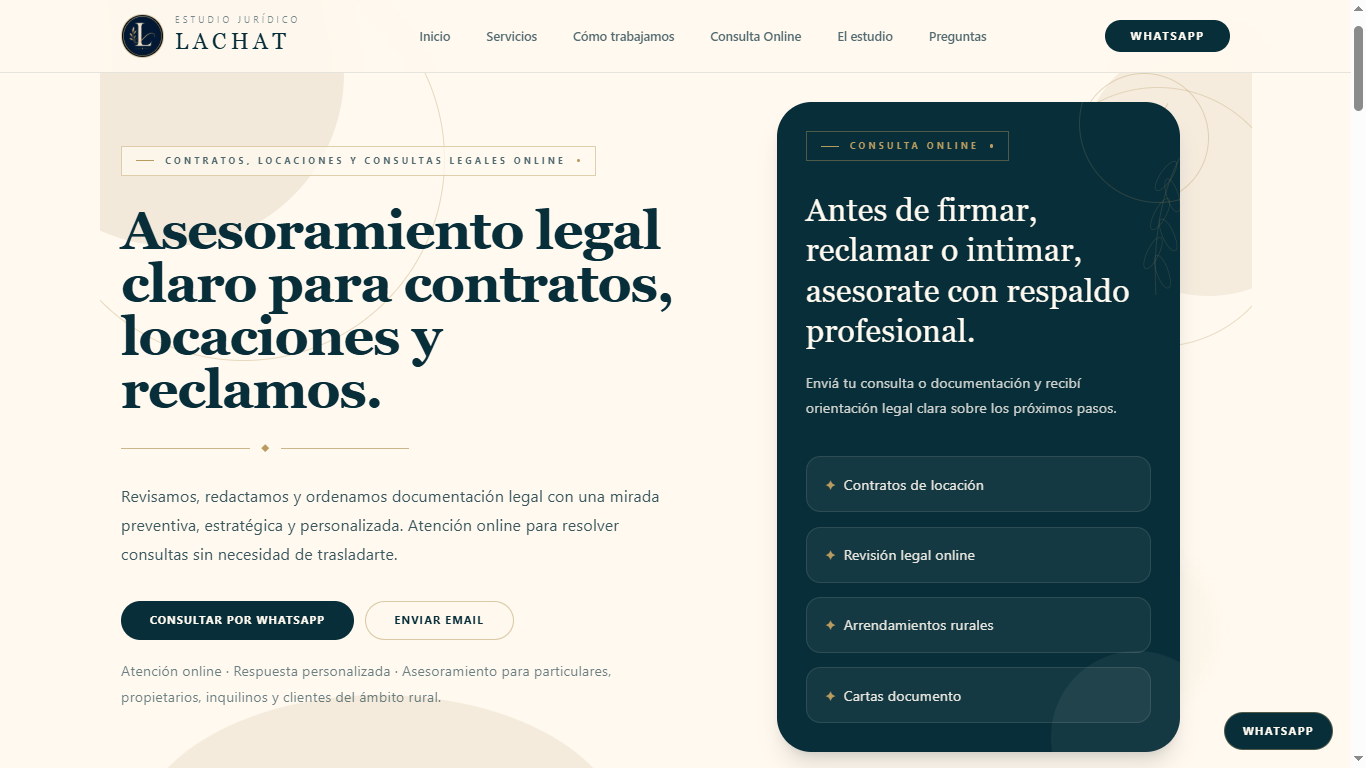
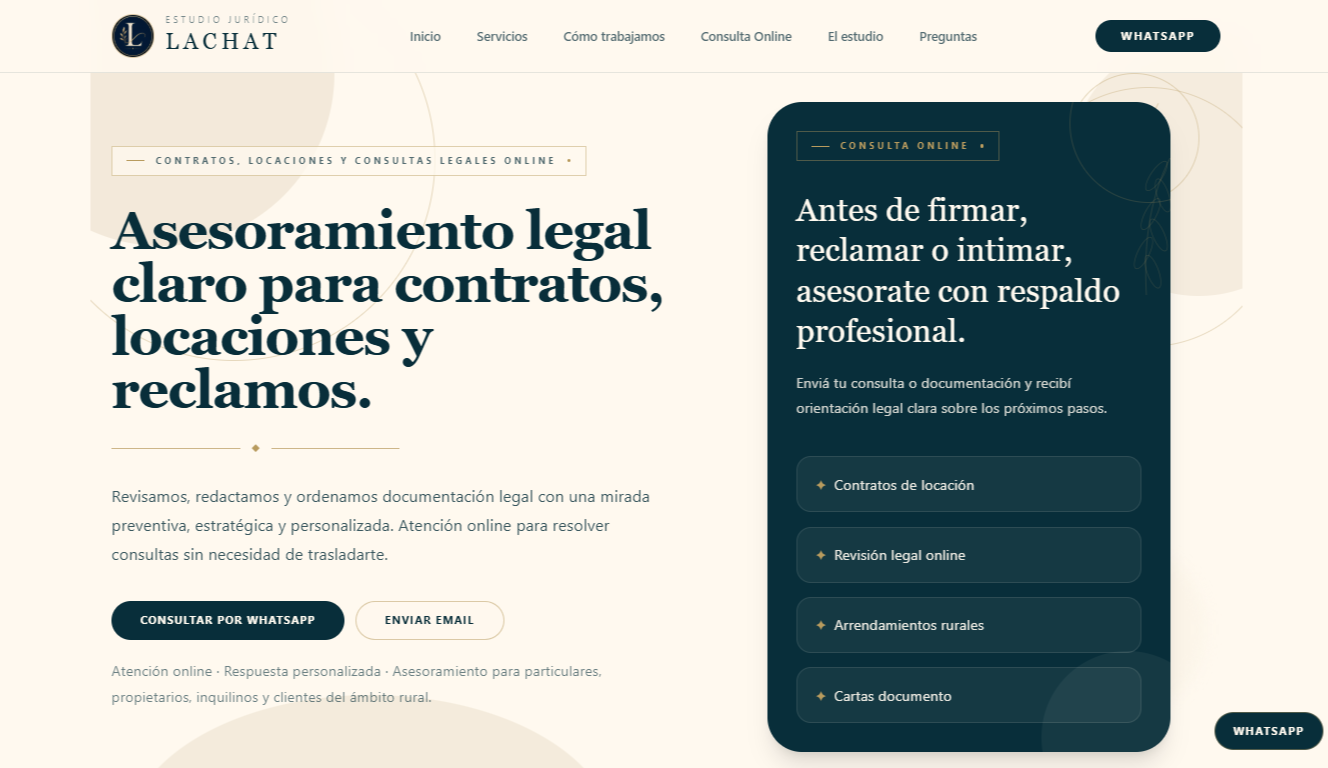
conifgs de supabase y vercel

diff --git a/src/app/api/cron/supabase-health/route.ts b/src/app/api/cron/supabase-health/route.ts
@@ -1,0 +1,125 @@
+import { createClient } from "@supabase/supabase-js";
+import type { NextRequest } from "next/server";
+
+export const runtime = "nodejs";
+export const dynamic = "force-dynamic";
+
+type HealthResponse = {
+  ok: boolean;
+  checkedAt?: string;
+  error?: string;
+};
+
+const HEARTBEAT_ID = "estudio-lachat-production";
+
+/**
+ * Obtiene una variable de entorno requerida.
+ * Acepta múltiples nombres para reutilizar la URL pública de Supabase si ya existe.
+ */
+function getRequiredEnv(keys: string[]): string {
+  const value = keys.map((key) => process.env[key]).find(Boolean);
+
+  if (!value) {
+    throw new Error(`Missing required environment variable: ${keys.join(" or ")}`);
+  }
+
+  return value;
+}
+
+/**
+ * Valida que la request venga desde Vercel Cron.
+ * Vercel envía automáticamente el header Authorization usando CRON_SECRET.
+ */
+function validateCronRequest(request: NextRequest): Response | null {
+  const cronSecret = process.env.CRON_SECRET;
+
+  if (!cronSecret) {
+    return Response.json(
+      {
+        ok: false,
+        error: "Missing CRON_SECRET environment variable",
+      } satisfies HealthResponse,
+      { status: 500 },
+    );
+  }
+
+  const authorizationHeader = request.headers.get("authorization");
+
+  if (authorizationHeader !== `Bearer ${cronSecret}`) {
+    return Response.json(
+      {
+        ok: false,
+        error: "Unauthorized",
+      } satisfies HealthResponse,
+      { status: 401 },
+    );
+  }
+
+  return null;
+}
+
+/**
+ * Healthcheck server-side para mantener actividad mínima en Supabase.
+ * No expone datos sensibles y usa una operación idempotente sobre una tabla interna.
+ */
+export async function GET(request: NextRequest): Promise<Response> {
+  const unauthorizedResponse = validateCronRequest(request);
+
+  if (unauthorizedResponse) {
+    return unauthorizedResponse;
+  }
+
+  try {
+    const supabaseUrl = getRequiredEnv(["SUPABASE_URL", "NEXT_PUBLIC_SUPABASE_URL"]);
+    const supabaseServiceRoleKey = getRequiredEnv(["SUPABASE_SERVICE_ROLE_KEY"]);
+
+    const supabaseAdmin = createClient(supabaseUrl, supabaseServiceRoleKey, {
+      auth: {
+        autoRefreshToken: false,
+        persistSession: false,
+      },
+    });
+
+    const checkedAt = new Date().toISOString();
+
+    const { error } = await supabaseAdmin.from("system_heartbeat").upsert(
+      {
+        id: HEARTBEAT_ID,
+        last_checked_at: checkedAt,
+        source: "vercel-cron",
+        updated_at: checkedAt,
+      },
+      {
+        onConflict: "id",
+      },
+    );
+
+    if (error) {
+      return Response.json(
+        {
+          ok: false,
+          error: error.message,
+        } satisfies HealthResponse,
+        { status: 500 },
+      );
+    }
+
+    return Response.json(
+      {
+        ok: true,
+        checkedAt,
+      } satisfies HealthResponse,
+      { status: 200 },
+    );
+  } catch (error) {
+    const message = error instanceof Error ? error.message : "Unknown error";
+
+    return Response.json(
+      {
+        ok: false,
+        error: message,
+      } satisfies HealthResponse,
+      { status: 500 },
+    );
+  }
+}
